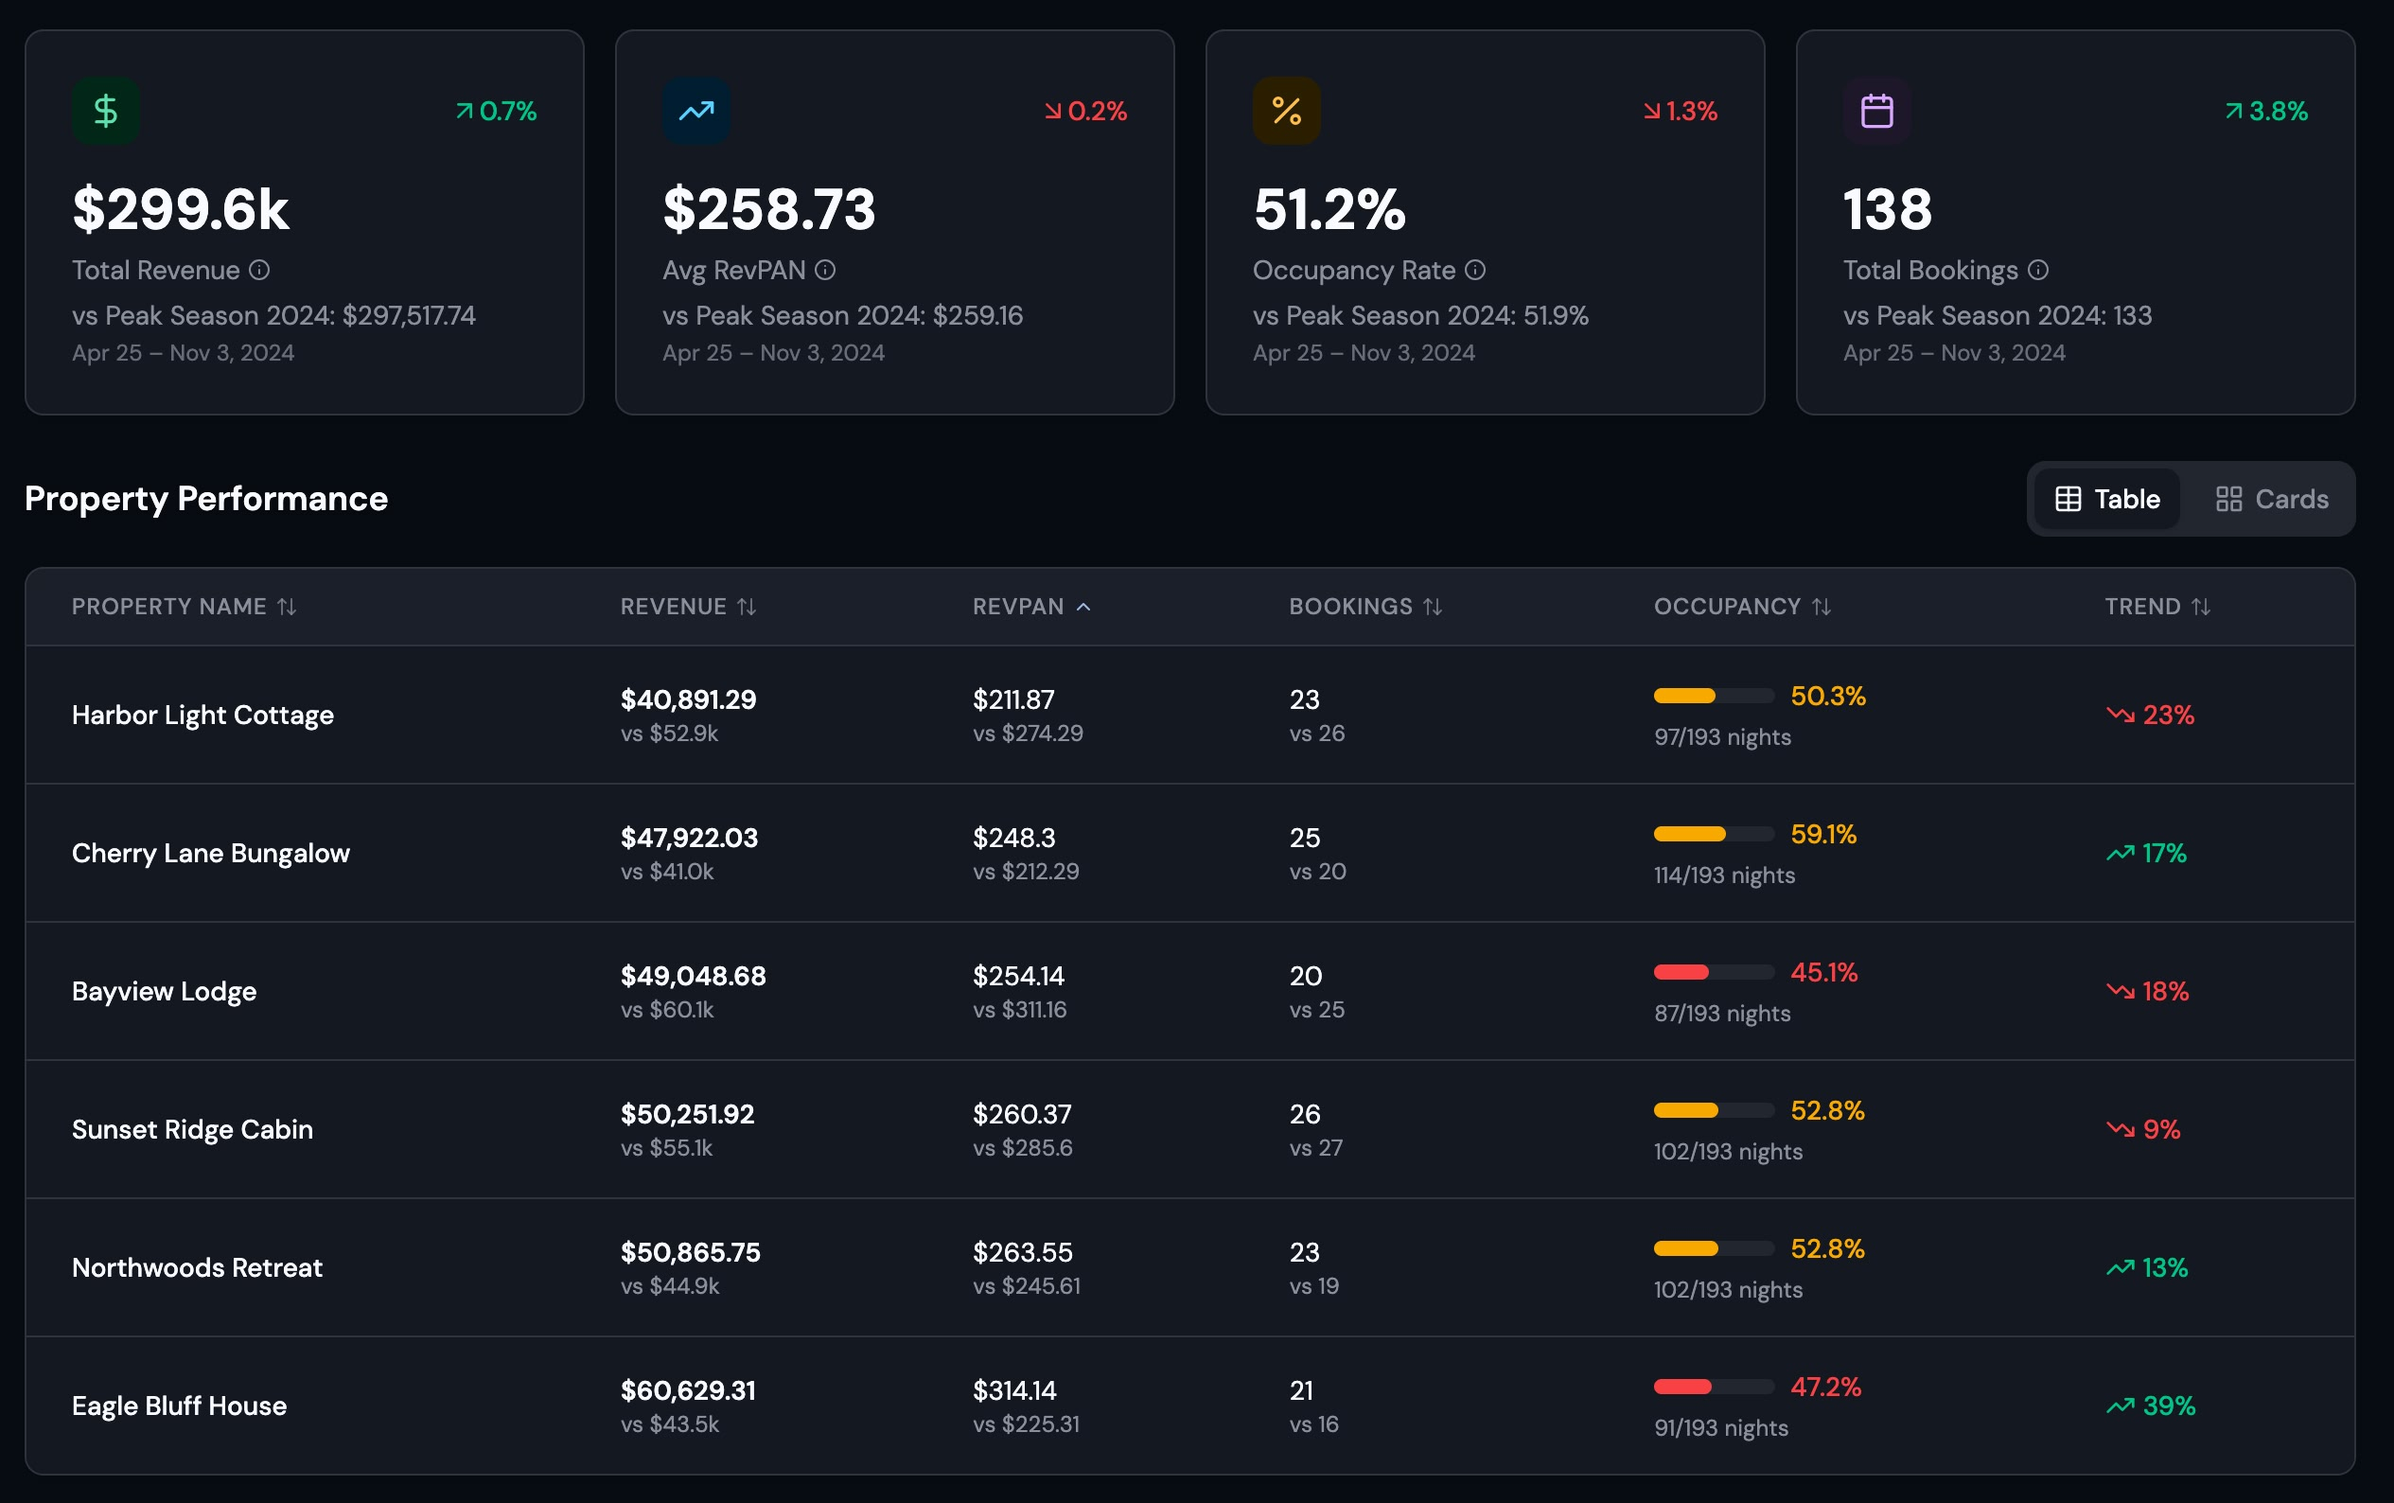
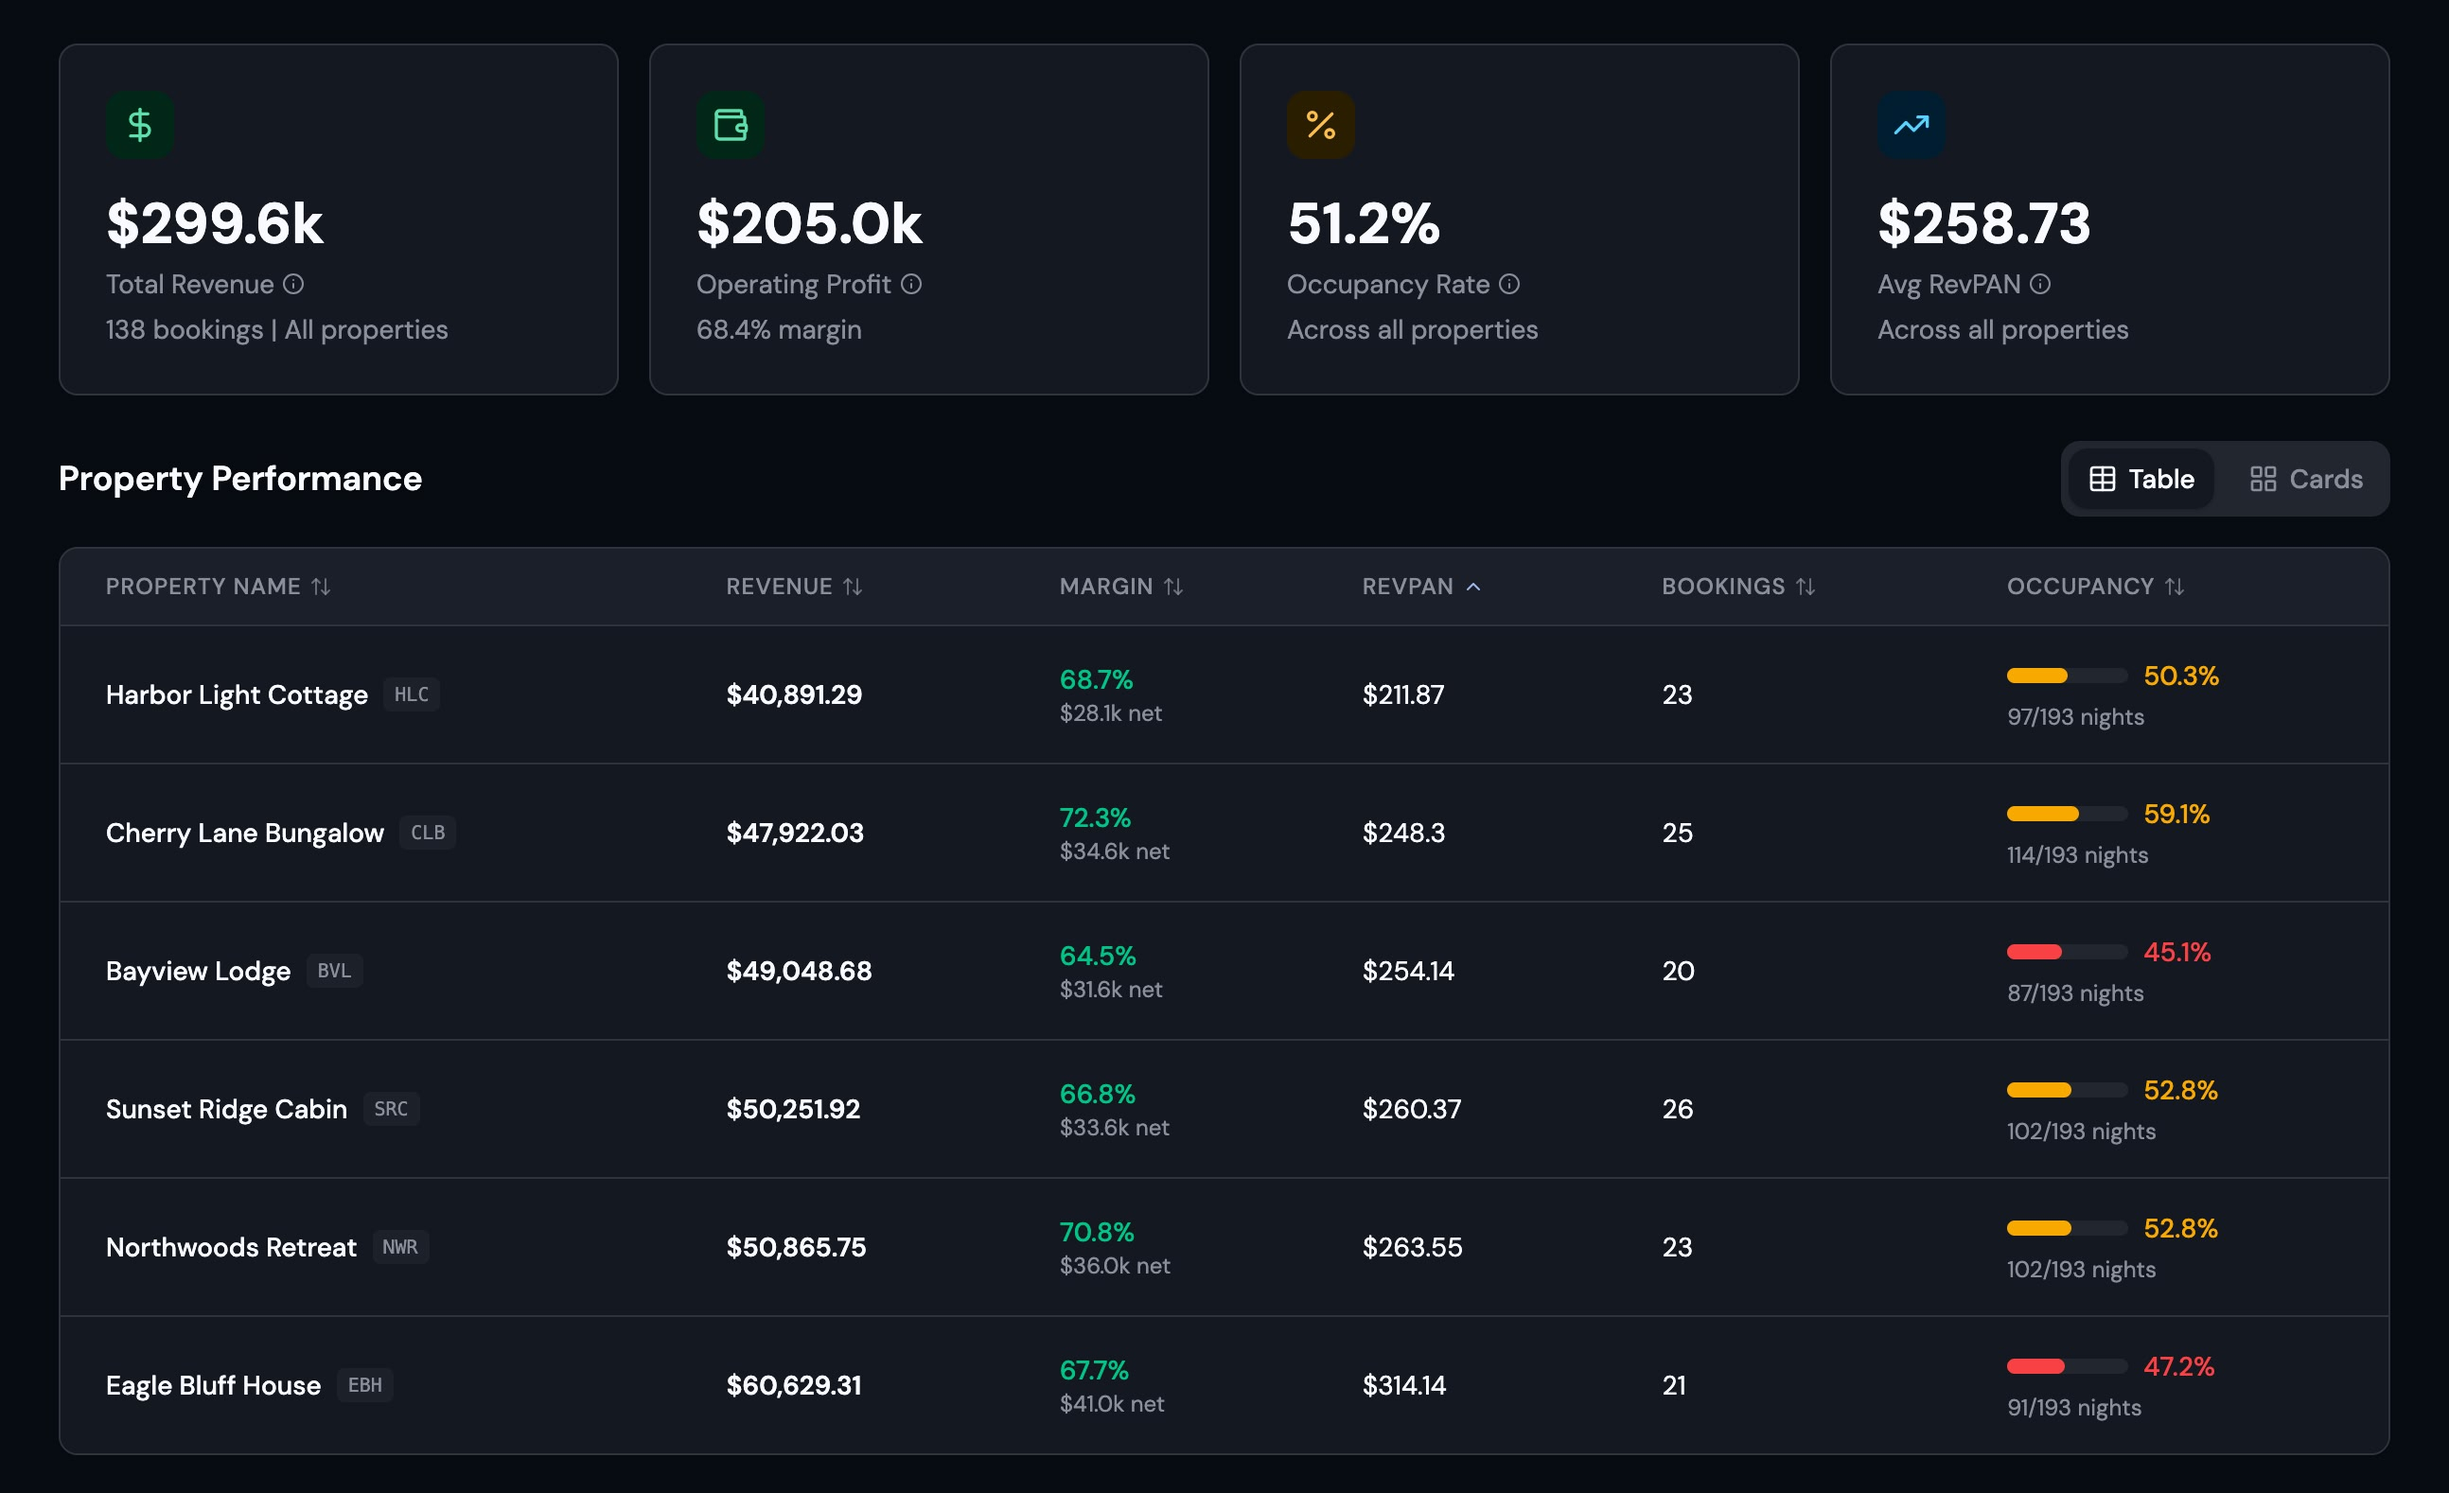
update landing page images

diff --git a/apps/web/src/pages/Landing.tsx b/apps/web/src/pages/Landing.tsx
@@ -213,7 +213,7 @@ export const Landing = () => {
             <div className="relative md:order-1">
               <div className="absolute -inset-4 bg-gradient-to-bl from-[oklch(0.45_0.12_280/0.15)] to-transparent rounded-3xl blur-2xl" />
               <div className="relative rounded-2xl ring-1 ring-white/10 overflow-hidden">
-                <img src="/demo/demo3.jpeg" alt="Property comparison dashboard" className="w-full scale-105" />
+                <img src="/demo/demo3.jpeg" alt="Property comparison dashboard" className="w-full" />
               </div>
             </div>
             <div className="md:order-2">
@@ -254,7 +254,7 @@ export const Landing = () => {
             <div className="relative">
               <div className="absolute -inset-4 bg-gradient-to-br from-[oklch(0.45_0.12_280/0.15)] to-transparent rounded-3xl blur-2xl" />
               <div className="relative rounded-2xl ring-1 ring-white/10 overflow-hidden">
-                <img src="/demo/demo4.jpeg" alt="Occupancy heatmap dashboard" className="w-full scale-105" />
+                <img src="/demo/demo4.jpeg" alt="Occupancy heatmap dashboard" className="w-full" />
               </div>
             </div>
           </div>
